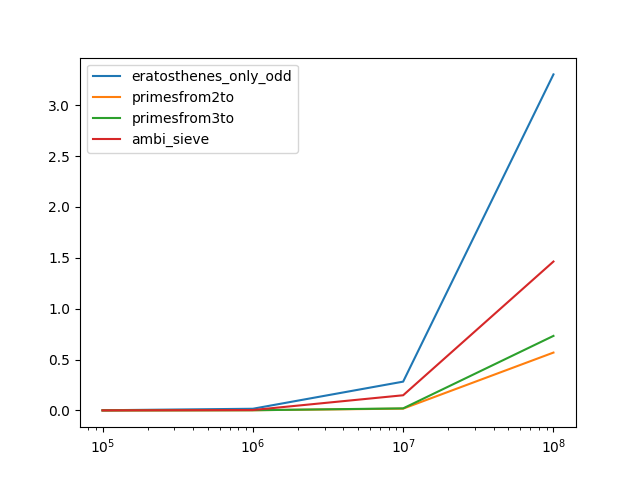
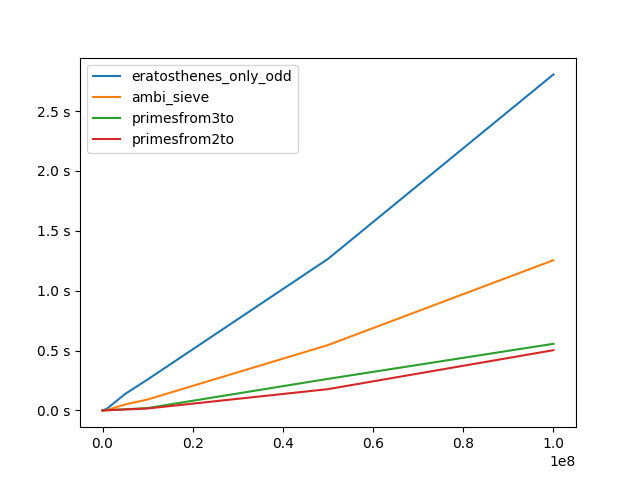
Change chart scale, add table, fix time_once decorator

diff --git a/main.py b/main.py
@@ -1,6 +1,7 @@
 import numpy as np
 from itertools import compress
 import matplotlib.pyplot as plt
+from matplotlib.ticker import FormatStrFormatter
 import itertools
 
 from timers import timer, timings
@@ -194,7 +195,9 @@ def primesfrom2to(n):
 
 
 def main():
-    for limit in [10 ** power for power in range(5, 9)]:
+    # for limit in [10 ** power for power in range(5, 9)]:
+    for limit in [5000, 10000, 50000, 100000, 500000, 1000000, 5000000, 10000000,
+                  50000000, 100000000]:
         eratosthenes_only_odd(n=limit)
         ambi_sieve(n=limit)
         primesfrom3to(n=limit)
@@ -204,7 +207,8 @@ def main():
 def plot():
     for name, timing in timings.items():
         plt.plot(timing['x'], timing['y'], label=name)
-    plt.xscale('log')
+
+    plt.gca().yaxis.set_major_formatter(FormatStrFormatter('%2.1f s'))
     plt.legend(loc='upper left')
     plt.show()
 

diff --git a/timers.py b/timers.py
@@ -15,7 +15,7 @@ def time_once(f):
         result = f(*args, **kw)
         te = time.time()
         print('func:%r args:[%r, %r] took: %2.7f sec' % (f.__name__, args, kw, te-ts))
-        timings[f.__name__]['x'].append(kw['limit'])  # x axis
+        timings[f.__name__]['x'].append(kw['n'])  # x axis
         timings[f.__name__]['y'].append(te - ts)  # y axis
         return result
     return timed

diff --git a/README.md b/README.md
@@ -28,7 +28,7 @@
         ```
         
 	* `list(itertools.compress(range(0, n + 1), sieve))`  
-	[Funkcja compress z biblioteki itertools](https://docs.python.org/3/library/itertools.html#itertools.compress) wywołana z takimi argumentami zwraca tylko te elementy range(0, n + 1), dla których odpowiadająca im wartość w sicie jest True, w tym przypadką będą to liczby pierwsze.
+	[Funkcja compress z biblioteki itertools](https://docs.python.org/3/library/itertools.html#itertools.compress) wywołana z takimi argumentami zwraca tylko te elementy range(0, n + 1), dla których odpowiadająca im wartość w sicie jest True, w tym przypadku będą to liczby pierwsze.
     * Sprawdziłem, ile zajmuje znalezienie liczb pierwszych w zakresie od 2 do 10000000:  
     	#### eratosthenes_sieve_basic(10000000) took: 1.9464535 sec
     * Pomyślałem, że ciekawie będzie pozmieniać w tym krótkim kodzie parę rzeczy i sprawdzić jak to wpłynie na wydajność kodu. Zacząłem od zmienienia pętli, która przypisuje wielokrotnościom liczb pierwszych wartości False. Użyłem do tego wycinków (ang. slices), w Pythonie można podmienić wycinek listy inną listą. Tak więc wycinek `sieve[num ** 2:: num]` podmieniam na odpowiednią liczbę wartości False `[False] * len(sieve[num ** 2:: num])`:
@@ -149,7 +149,8 @@
         def plot():
             for name, timing in timings.items():
                 plt.plot(timing['x'], timing['y'], label=name)
-            plt.xscale('log')
+            
+            plt.gca().yaxis.set_major_formatter(FormatStrFormatter('%2.1f s'))
             plt.legend(loc='upper left')
             plt.show()
         
@@ -159,6 +160,13 @@
             plot()
         ```  
 
-    * Wykres:
+    * Wykres zależności czasu działania programu od limitu n:
     <br/><br/>
     ![Wykres](https://github.com/radzak/prime-numbers/blob/master/wykres.png)
+
+    |                       | 5000        | 10000       | 50000       | 100000      | 500000      | 1000000     | 5000000     | 10000000    | 50000000    | 100000000   |
+    |-----------------------|-------------|-------------|-------------|-------------|-------------|-------------|-------------|-------------|-------------|-------------|
+    | eratosthenes_only_odd | 0.000110430 | 0.000139739 | 0.000657882 | 0.001353349 | 0.006901198 | 0.014527605 | 0.137059519 | 0.25822561  | 1.26553784  | 2.806702875 |
+    | ambi_sieve            | 0.000036206 | 0.000036206 | 0.000036206 | 0.000036206 | 0.001563346 | 0.003099196 | 0.049239187 | 0.091219754 | 0.545811518 | 1.254835714 |
+    | primesfrom3to         | 0.000032167 | 0.000041829 | 0.000110394 | 0.000198645 | 0.000856721 | 0.001739746 | 0.009431428 | 0.019659354 | 0.263384407 | 0.556288335 |
+    | primesfrom2to         | 0.000049117 | 0.000062179 | 0.000127794 | 0.000207102 | 0.000780147 | 0.001505282 | 0.007677006 | 0.016111291 | 0.177609782 | 0.502962244 |
